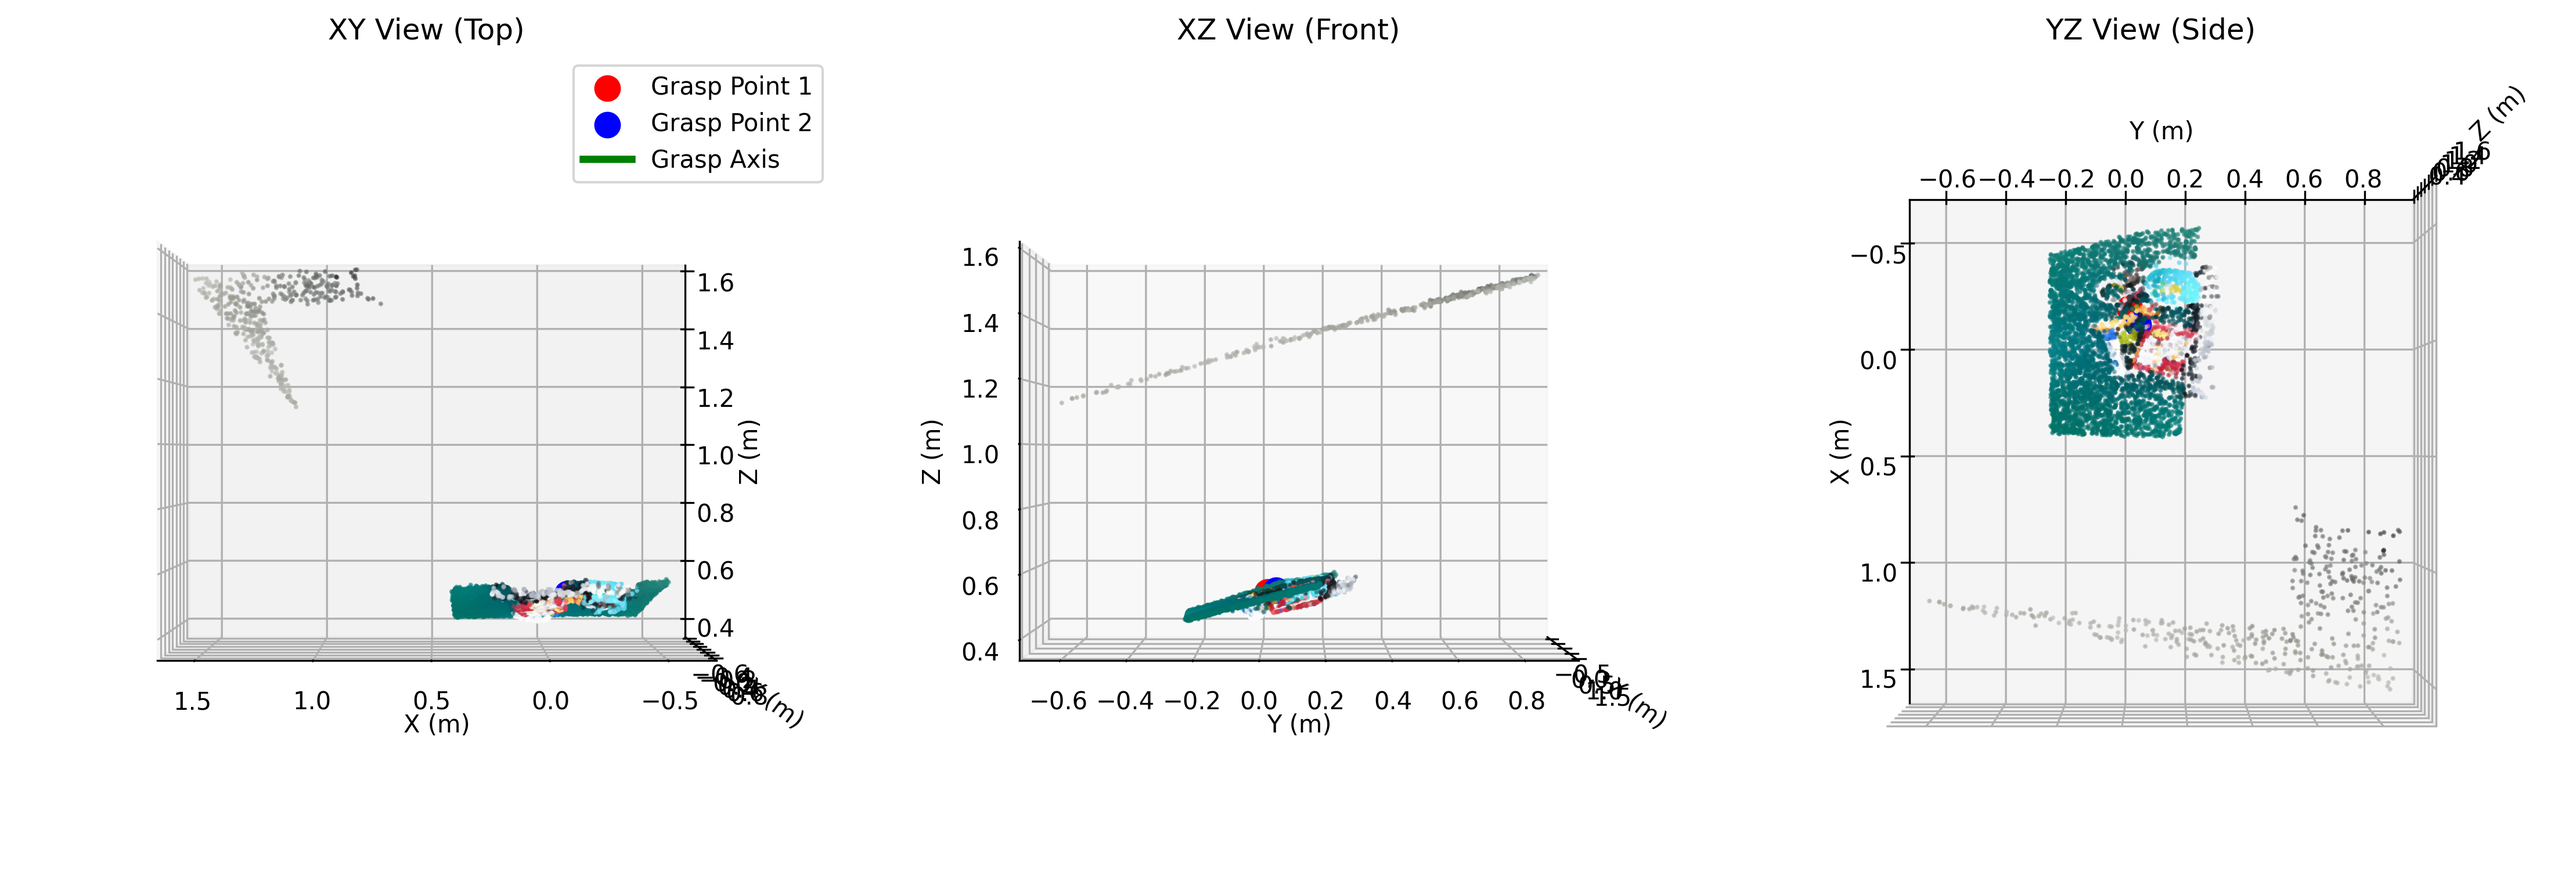
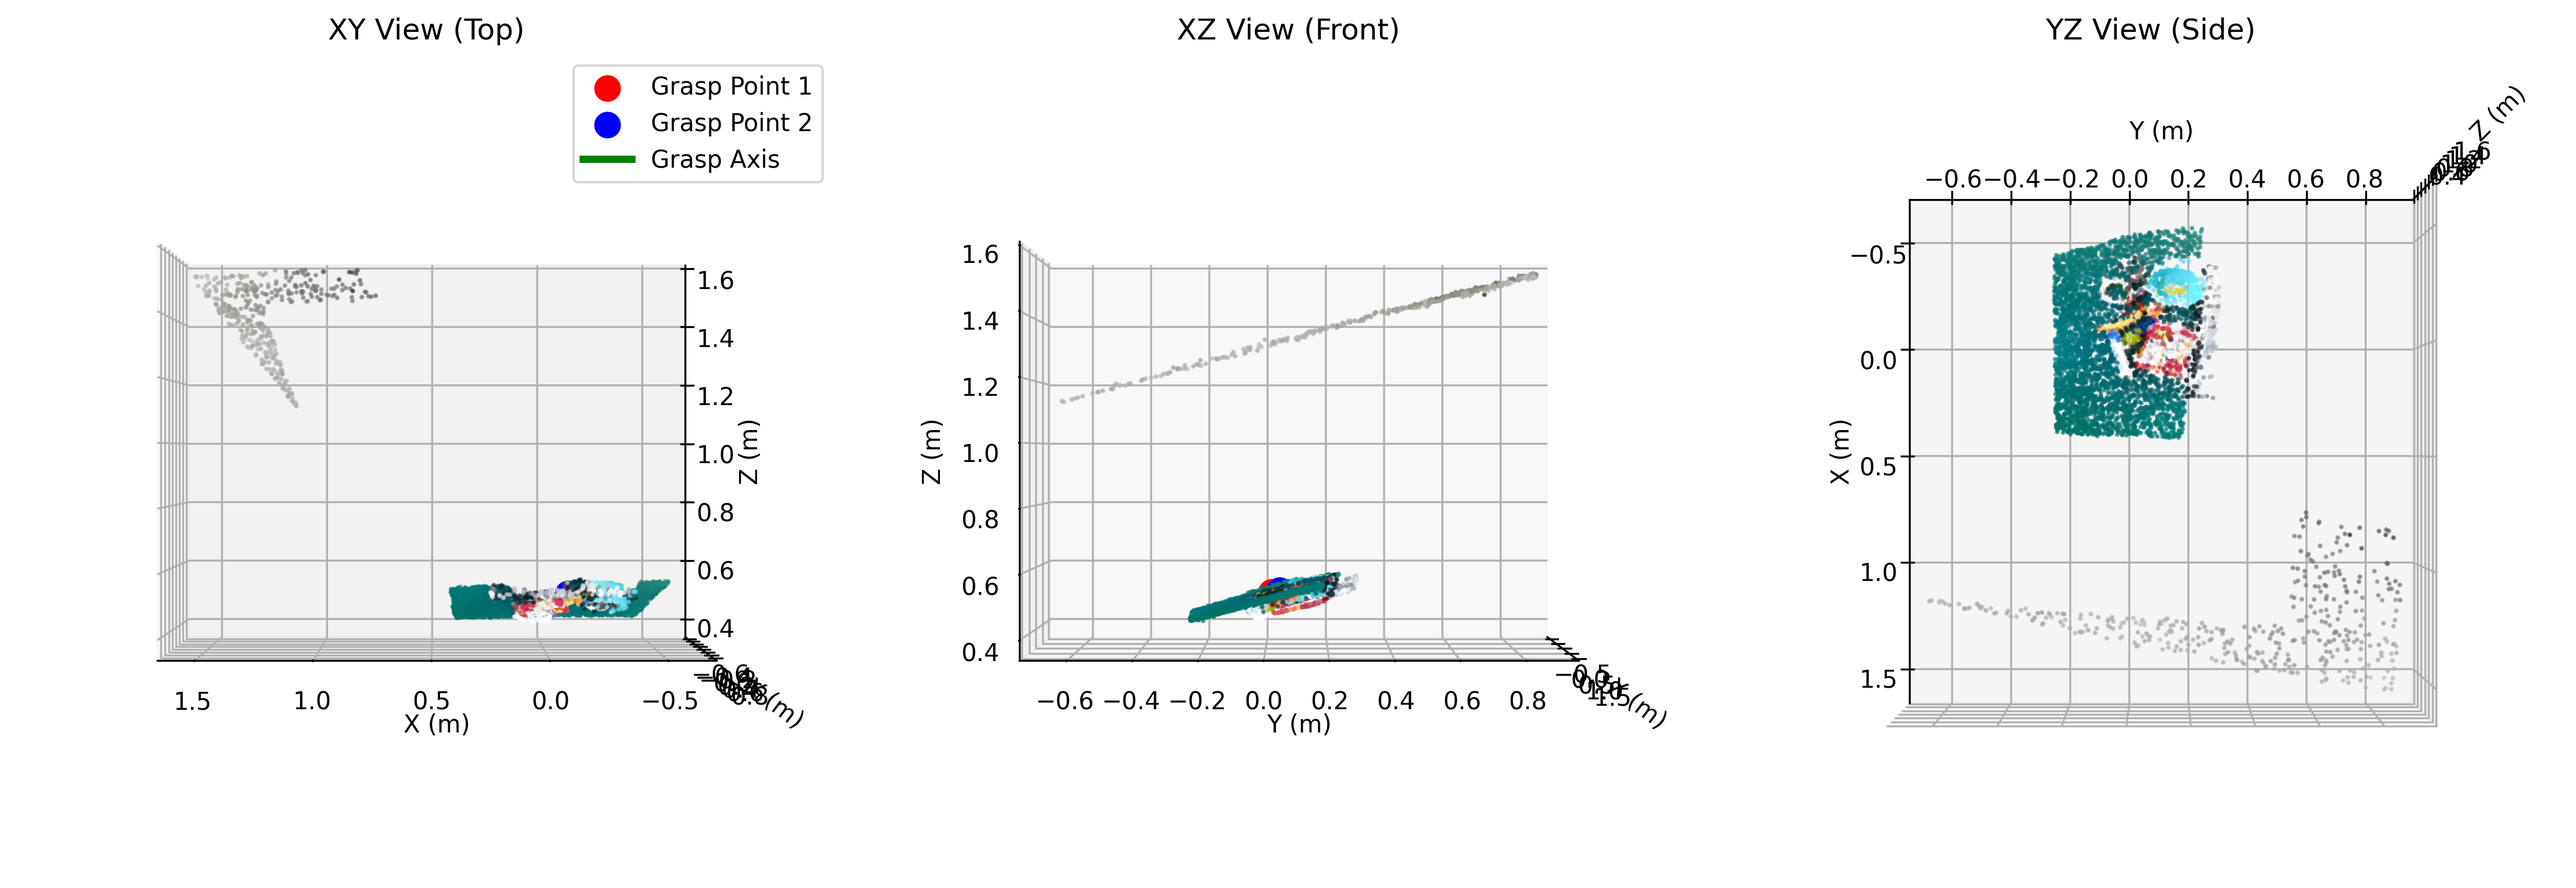
Enhance VLMGraspEval: add detailed debugging for coordinate transformations, improve logging for object and scene data, and refine grasp processing. Update binary visualization files.

diff --git a/graspnetAPI/vlm_grasp_eval.py b/graspnetAPI/vlm_grasp_eval.py
@@ -703,8 +703,24 @@ class VLMGraspEval:
         for posevector in posevectors:
             obj_idx, obj_pose = parse_posevector(posevector)
             if obj_idx == target_obj_idx:
+                # Debug information
+                print(f"🔍 Coordinate transformation debug:")
+                print(f"   Object pose in table frame:\n{obj_pose}")
+                print(f"   Camera pose (table to camera):\n{camera_pose}")
+                print(f"   Align matrix (cam0 to table):\n{align_mat}")
+                
                 # Transform from table coordinate to camera coordinate
-                obj_pose_in_camera = np.linalg.inv(np.matmul(align_mat, camera_pose)) @ obj_pose
+                # obj_pose: object -> table
+                # align_mat: cam0 -> table
+                # camera_pose: table -> camera 
+                # We want: object -> camera
+                
+                # Method 1: Direct transformation (assuming camera_pose is table->camera)
+                obj_pose_in_camera = camera_pose @ obj_pose
+                
+                print(f"   Final object pose (object->camera):\n{obj_pose_in_camera}")
+                print(f"   Object position in camera: {obj_pose_in_camera[:3, 3]}")
+                
                 return obj_pose_in_camera
         
         raise ValueError(f"Object {target_obj_idx} not found in scene {scene_id} annotation {ann_id}")
@@ -1256,6 +1272,11 @@ class VLMGraspEval:
                 scene_points = np.array(pcd.points)
                 scene_colors = np.array(pcd.colors)
                 
+                print(f"   🌐 Scene point cloud debug:")
+                print(f"      Scene bounds: {scene_points.min(axis=0)} to {scene_points.max(axis=0)}")
+                print(f"      Scene center: {scene_points.mean(axis=0)}")
+                print(f"      Scene points count: {len(scene_points)}")
+                
                 # Add scene point cloud
                 server.scene.add_point_cloud(
                     name="scene_points",
@@ -1267,6 +1288,8 @@ class VLMGraspEval:
                 
             except Exception as e:
                 print(f"   ⚠ Could not load scene point cloud: {e}")
+                import traceback
+                traceback.print_exc()
             
             # Add VLM grasp visualization
             self._add_vlm_grasp_to_viser(server, result)
@@ -1286,8 +1309,15 @@ class VLMGraspEval:
                 object_model, _ = self.get_object_model_and_dexnet(scene_id, ann_id, target_obj_idx)
                 object_pose = self.get_object_pose_in_camera(scene_id, ann_id, target_obj_idx)
                 
+                print(f"   🎯 Object model debug:")
+                print(f"      Original model bounds: {object_model.min(axis=0)} to {object_model.max(axis=0)}")
+                print(f"      Model center (object coords): {object_model.mean(axis=0)}")
+                
                 # Transform object model to camera coordinates
                 object_model_cam = self.transform_points(object_model, object_pose)
+                
+                print(f"      Transformed model bounds: {object_model_cam.min(axis=0)} to {object_model_cam.max(axis=0)}")
+                print(f"      Model center (camera coords): {object_model_cam.mean(axis=0)}")
                 
                 server.scene.add_point_cloud(
                     name="object_model",
@@ -1299,6 +1329,8 @@ class VLMGraspEval:
                 
             except Exception as e:
                 print(f"   ⚠ Could not load object model: {e}")
+                import traceback
+                traceback.print_exc()
             
             # Add text information
             info_text = f"""VLM Grasp Evaluation Results
@@ -1392,13 +1424,20 @@ Legend:
             gt_points = []
             gt_colors = []
             
+            print(f"   📍 Processing {len(gt_grasps)} ground truth grasps:")
+            
             for i, (grasp, score) in enumerate(zip(gt_grasps, gt_scores)):
                 # Extract grasp center and rotation
-                grasp_center = grasp[13:16]  # translation
-                rotation_matrix = grasp[4:13].reshape(3, 3)  # rotation
+                grasp_center = grasp[13:16]  # translation in object coordinates
+                rotation_matrix = grasp[4:13].reshape(3, 3)  # rotation in object coordinates
                 
-                # Transform to camera coordinates
-                grasp_center_cam = self.transform_points(grasp_center.reshape(1, -1), object_pose)[0]
+                print(f"      GT grasp {i}: center_obj={grasp_center}, score={score:.3f}")
+                
+                # Transform grasp center to camera coordinates
+                grasp_center_homo = np.append(grasp_center, 1.0)  # Make homogeneous
+                grasp_center_cam = (object_pose @ grasp_center_homo)[:3]
+                
+                print(f"                  center_cam={grasp_center_cam}")
                 
                 gt_points.append(grasp_center_cam)
                 
@@ -1413,13 +1452,13 @@ Legend:
                 
                 # Add individual grasp frame for top grasps
                 if i < 5:  # Only show frames for top 5 grasps
-                    # Create pose matrix
-                    gt_pose = np.eye(4)
-                    gt_pose[:3, :3] = rotation_matrix
-                    gt_pose[:3, 3] = grasp_center
+                    # Create pose matrix in object coordinates
+                    gt_pose_obj = np.eye(4)
+                    gt_pose_obj[:3, :3] = rotation_matrix
+                    gt_pose_obj[:3, 3] = grasp_center
                     
                     # Transform pose to camera coordinates
-                    gt_pose_cam = object_pose @ gt_pose
+                    gt_pose_cam = object_pose @ gt_pose_obj
                     
                     self._add_coordinate_frame_to_viser(
                         server,
@@ -1442,6 +1481,8 @@ Legend:
             
         except Exception as e:
             print(f"   ⚠ Error adding ground truth grasps: {e}")
+            import traceback
+            traceback.print_exc()
 
     def _add_coordinate_frame_to_viser(self, server, name: str, pose: np.ndarray, 
                                      scale: float = 0.1, alpha: float = 1.0):
@@ -1538,6 +1579,116 @@ Legend:
         except Exception as e:
             print(f"   ⚠ Could not estimate surface normal: {e}")
             return np.array([0, 0, 1])  # Default upward normal
+
+    def debug_coordinate_transforms(self, scene_id: int, ann_id: int, target_obj_idx: int):
+        """
+        Debug coordinate transformations to understand alignment issues.
+        
+        **Input:**
+        - scene_id: scene index
+        - ann_id: annotation index
+        - target_obj_idx: object index
+        """
+        print(f"🔧 Debugging coordinate transformations for scene {scene_id}, ann {ann_id}, obj {target_obj_idx}")
+        
+        try:
+            # Load all transformation components
+            scene_name = f'scene_{scene_id:04d}'
+            camera_poses_path = os.path.join(self.root, 'scenes', scene_name, self.camera, 'camera_poses.npy')
+            align_mat_path = os.path.join(self.root, 'scenes', scene_name, self.camera, 'cam0_wrt_table.npy')
+            
+            if not os.path.exists(camera_poses_path):
+                camera_poses_path = os.path.join(self.root, scene_name, self.camera, 'camera_poses.npy')
+                align_mat_path = os.path.join(self.root, scene_name, self.camera, 'cam0_wrt_table.npy')
+            
+            camera_poses = np.load(camera_poses_path)
+            align_mat = np.load(align_mat_path)
+            camera_pose = camera_poses[ann_id]
+            
+            # Load object pose
+            annotation_path = os.path.join(os.path.dirname(camera_poses_path), 'annotations', f'{ann_id:04d}.xml')
+            from .utils.xmlhandler import xmlReader
+            from .utils.eval_utils import parse_posevector
+            
+            scene_reader = xmlReader(annotation_path)
+            posevectors = scene_reader.getposevectorlist()
+            
+            obj_pose_table = None
+            for posevector in posevectors:
+                obj_idx, obj_pose = parse_posevector(posevector)
+                if obj_idx == target_obj_idx:
+                    obj_pose_table = obj_pose
+                    break
+            
+            if obj_pose_table is None:
+                print(f"❌ Object {target_obj_idx} not found in scene")
+                return
+            
+            print(f"\n📊 Transformation Matrix Analysis:")
+            print(f"Camera pose (shape: {camera_pose.shape}):")
+            print(f"  Translation: {camera_pose[:3, 3]}")
+            print(f"  Matrix:\n{camera_pose}")
+            
+            print(f"\nAlign matrix (shape: {align_mat.shape}):")
+            print(f"  Translation: {align_mat[:3, 3]}")
+            print(f"  Matrix:\n{align_mat}")
+            
+            print(f"\nObject pose in table (shape: {obj_pose_table.shape}):")
+            print(f"  Translation: {obj_pose_table[:3, 3]}")
+            print(f"  Matrix:\n{obj_pose_table}")
+            
+            # Test different transformation combinations
+            print(f"\n🧪 Testing transformation combinations:")
+            
+            # Method 1: camera_pose @ obj_pose_table
+            transform1 = camera_pose @ obj_pose_table
+            print(f"Method 1 - camera_pose @ obj_pose_table:")
+            print(f"  Result translation: {transform1[:3, 3]}")
+            
+            # Method 2: inv(align_mat @ camera_pose) @ obj_pose_table (original)
+            transform2 = np.linalg.inv(align_mat @ camera_pose) @ obj_pose_table
+            print(f"Method 2 - inv(align_mat @ camera_pose) @ obj_pose_table:")
+            print(f"  Result translation: {transform2[:3, 3]}")
+            
+            # Method 3: inv(camera_pose) @ obj_pose_table
+            transform3 = np.linalg.inv(camera_pose) @ obj_pose_table  
+            print(f"Method 3 - inv(camera_pose) @ obj_pose_table:")
+            print(f"  Result translation: {transform3[:3, 3]}")
+            
+            # Test with a simple object point (origin)
+            test_point_obj = np.array([0, 0, 0, 1])  # Object origin in homogeneous coords
+            
+            print(f"\n🎯 Testing object origin transformation:")
+            print(f"Method 1 result: {(transform1 @ test_point_obj)[:3]}")
+            print(f"Method 2 result: {(transform2 @ test_point_obj)[:3]}")
+            print(f"Method 3 result: {(transform3 @ test_point_obj)[:3]}")
+            
+            # Load actual scene data for comparison
+            try:
+                pcd = self.loadScenePointCloud(scene_id, self.camera, ann_id)
+                scene_points = np.array(pcd.points)
+                print(f"\nScene point cloud bounds: {scene_points.min(axis=0)} to {scene_points.max(axis=0)}")
+                
+                object_model, _ = self.get_object_model_and_dexnet(scene_id, ann_id, target_obj_idx)
+                print(f"Object model bounds: {object_model.min(axis=0)} to {object_model.max(axis=0)}")
+                
+                # Check which transformation method puts object model closest to scene
+                for i, transform in enumerate([transform1, transform2, transform3], 1):
+                    transformed_model = self.transform_points(object_model, transform)
+                    model_center = transformed_model.mean(axis=0)
+                    
+                    # Find closest scene point to model center
+                    distances = np.linalg.norm(scene_points - model_center, axis=1)
+                    min_dist = distances.min()
+                    print(f"Method {i} - Model center: {model_center}, closest scene distance: {min_dist:.3f}")
+                
+            except Exception as e:
+                print(f"Could not load scene/model data: {e}")
+                
+        except Exception as e:
+            print(f"❌ Error in coordinate debug: {e}")
+            import traceback
+            traceback.print_exc()
 
 
 # Example usage and demonstration
